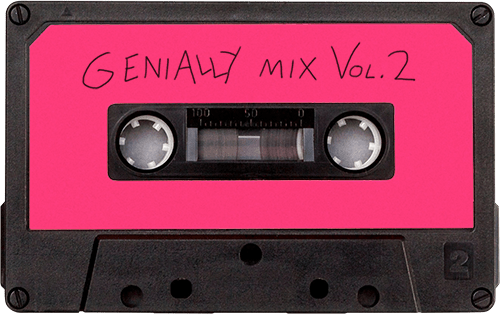
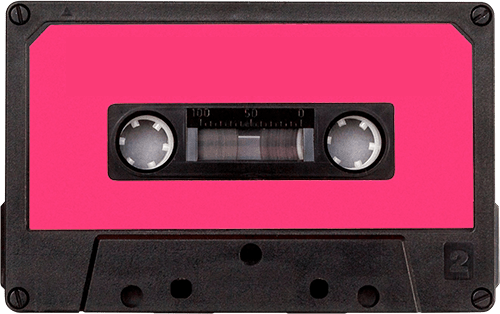
Rebuild title slide; drop Genially-branded cassette labels
Sarah's composition: hands removed, leg moved left with the I-ball balanced off
the toe, title and START in a right-hand column. Trainer left unmirrored - its
toe already points right. Tapes replaced with Sarah's unbranded edits.

diff --git a/pronunciation/short-long-i/index.html b/pronunciation/short-long-i/index.html
@@ -105,19 +105,24 @@ h1,h2,h3{line-height:1.02;letter-spacing:-.01em}
 
 /* ─────────── slide 1 : title ─────────── */
 #s1{background:var(--pink)}
-#s1 .inner{position:absolute;inset:44px 90px 44px 90px;background:var(--cyan);display:grid;place-items:center}
-#s1 .inner{padding:0 300px 0 60px}
-#s1 h1{font-size:78px;color:var(--yellow);text-align:center}
+#s1 .inner{
+  position:absolute;inset:44px 70px;background:var(--cyan);
+  display:flex;flex-direction:column;align-items:flex-end;justify-content:center;
+  padding:0 66px 0 430px;                    /* right-hand text column */
+}
+#s1 h1{font-size:76px;color:var(--yellow);text-align:right}
 .start{
-  margin-top:26px;background:var(--pink);color:var(--yellow);
+  margin-top:28px;background:var(--pink);color:var(--yellow);
   font:italic 800 34px/1 'Montserrat',sans-serif;letter-spacing:.02em;
-  border:none;padding:14px 44px;cursor:pointer;text-transform:uppercase;
+  border:none;padding:14px 46px;cursor:pointer;text-transform:uppercase;
   transition:transform .15s;
 }
 .start:hover{transform:scale(1.06)}
 .start:focus-visible{outline:4px solid var(--ink);outline-offset:4px}
-.tape-l{position:absolute;left:-10px;bottom:60px;width:230px;transform:rotate(-8deg)}
-.trainers{position:absolute;right:26px;top:-6px;width:330px}
+/* leg enters top-left, mirrored, toe low; the I-ball balances on the toe */
+.trainers{position:absolute;left:40px;top:-10px;width:340px}
+.iball{position:absolute;left:300px;top:560px;width:118px;animation:bob 2.4s ease-in-out infinite}
+@keyframes bob{0%,100%{transform:translateY(0)}50%{transform:translateY(-16px)}}
 
 /* ─────────── slide 2 : index ─────────── */
 #s2{background:var(--yellow)}
@@ -249,7 +254,7 @@ h1,h2,h3{line-height:1.02;letter-spacing:-.01em}
         <button class="start" data-goto="2">Start</button>
       </div>
       <img class="trainers" src="assets/img/trainers_tracksuit.png" alt="">
-      <img class="tape-l" src="assets/img/hands_holding_I.png" alt="">
+      <img class="iball" src="assets/img/i_letter.gif" alt="">
     </section>
 
     <!-- 2 ─ INDEX -->

diff --git a/pronunciation/short-long-i/README.md b/pronunciation/short-long-i/README.md
@@ -39,10 +39,16 @@ Live: https://colibrissimo.github.io/geii/pronunciation/short-long-i/
   w**o**men, b**u**sy, marri**a**ge, and bus**i**ness (where the *u* says
   nothing at all).
 
+## Title slide, rebuilt 9 Aug 2026 (Sarah's composition)
+Hands dropped. The leg enters top-left with the I-ball bobbing just off the toe
+— keepie-uppie, kicking rightwards into the title — and the title plus START sit
+in a right-hand column. The trainer is **not** mirrored: its toe already points
+down-right, so `scaleX(-1)` put the ball behind the heel.
+
 ## Images still carrying someone else's branding
-Sarah is redoing these; the deck reads whatever file is at the path.
-- `assets/img/yellow_tape.png`, `assets/img/pink_tape.png` — "GENIALLY MIX Vol. 1 / 2"
-- `assets/img/mixtape.gif` — "colorSTREET Mixtape" (index + thanks slide)
+The deck reads whatever file sits at the path, so replacing a file is enough.
+- ~~`yellow_tape.png`, `pink_tape.png` — "GENIALLY MIX Vol. 1 / 2"~~ **done by Sarah, labels now blank**
+- `assets/img/mixtape.gif` — "colorSTREET Mixtape" (index + thanks slide) — still to do
 
 ## Not carried over
 - The "+ info" pop-ups on the two "Meet…" slides (they held no content that
